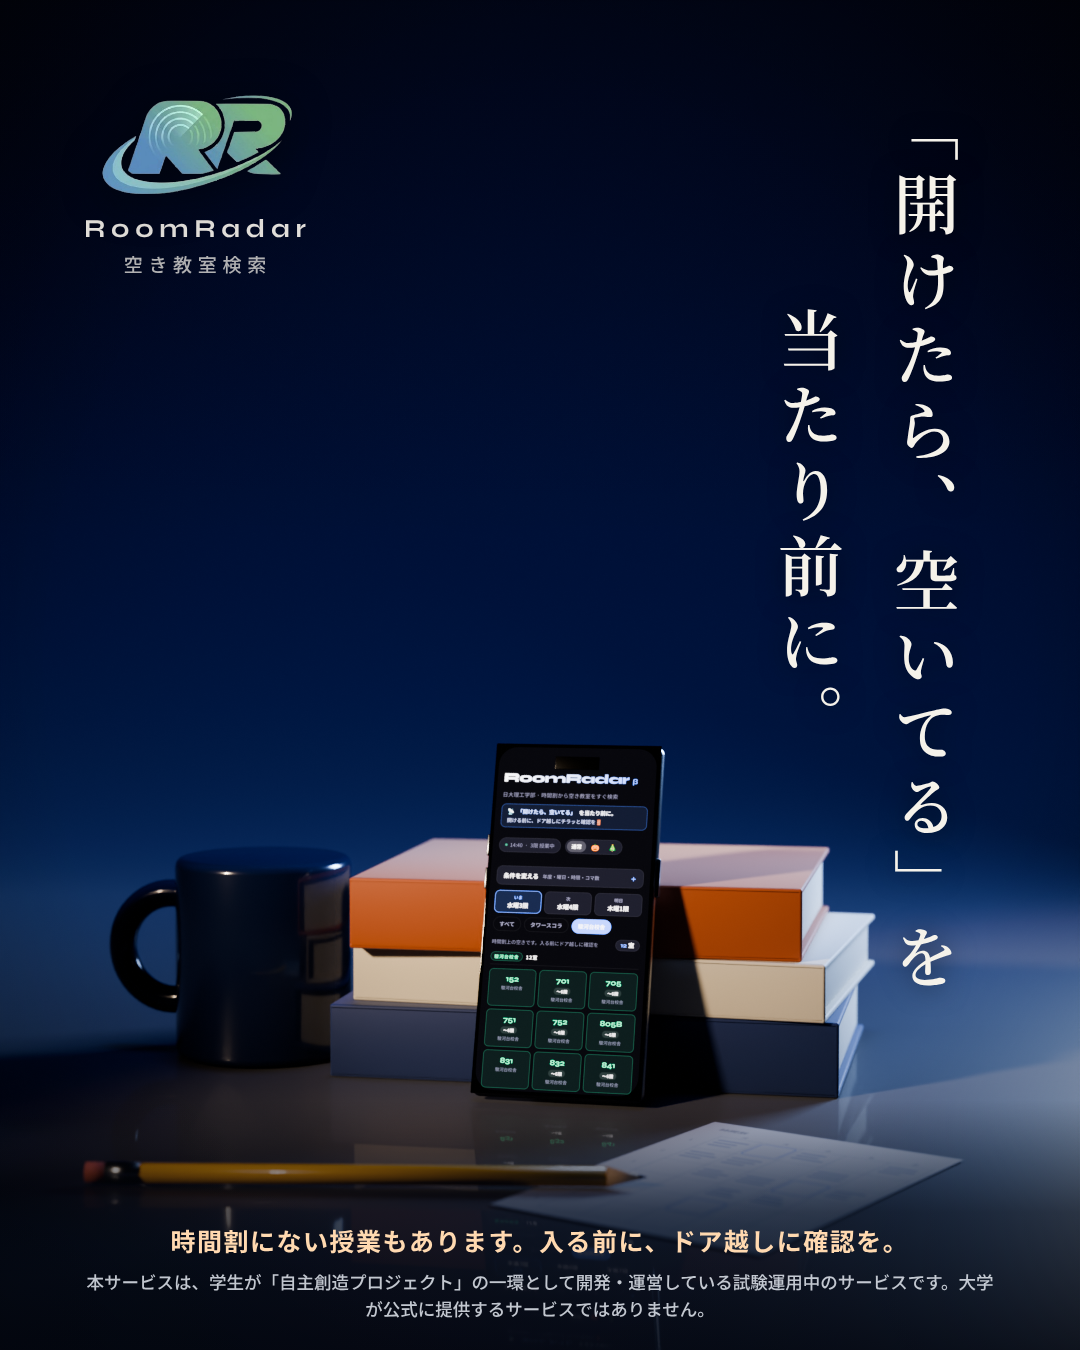
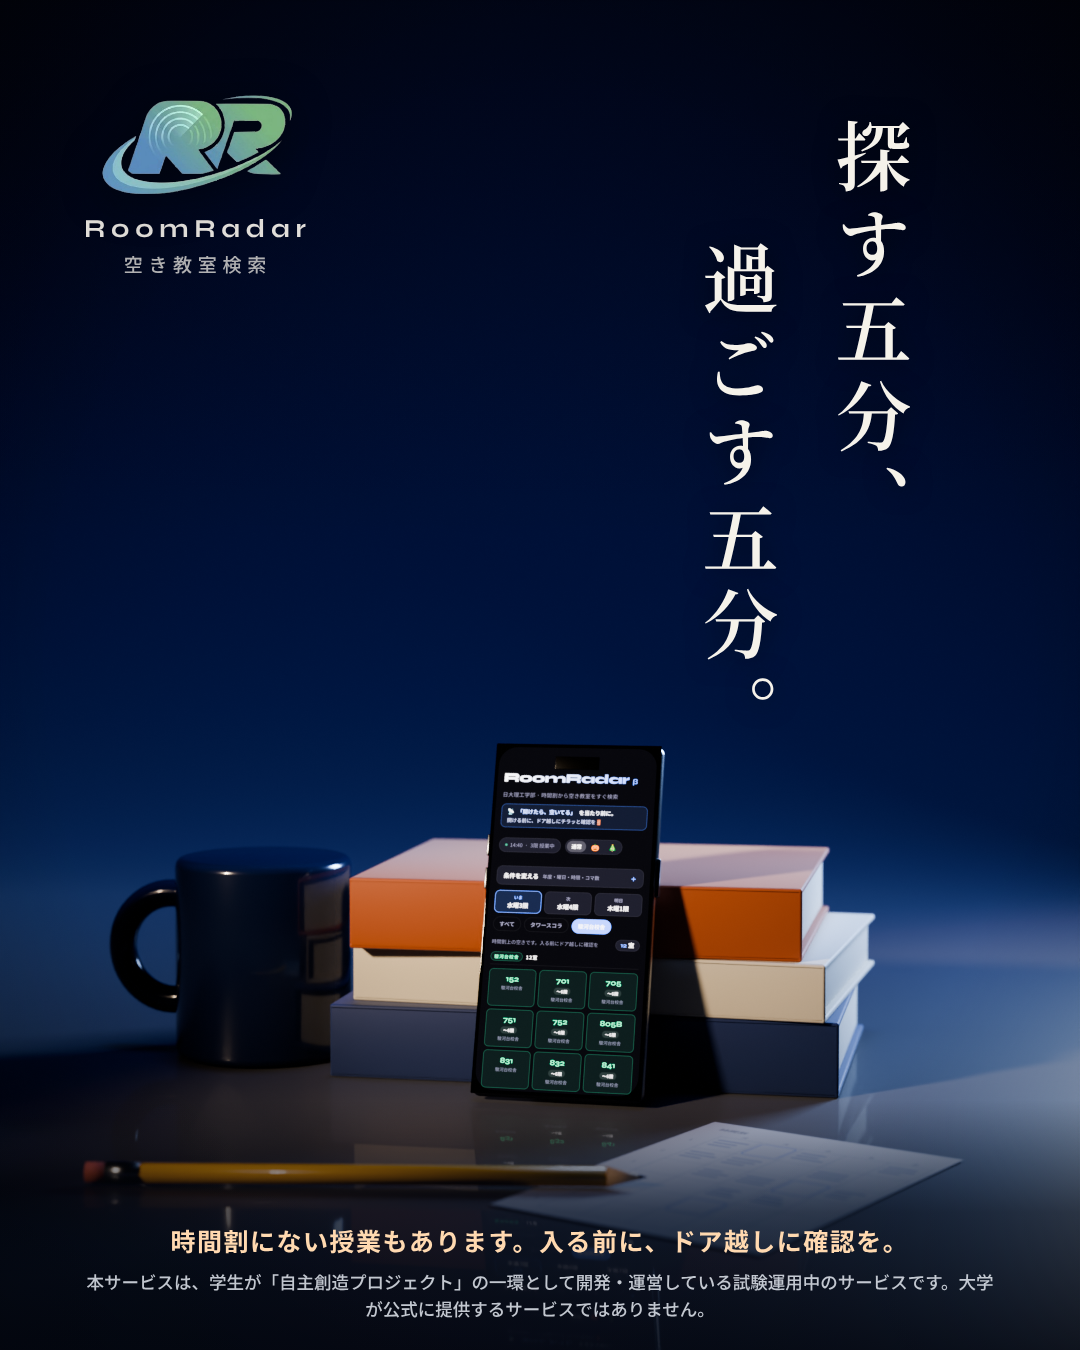
広告ふうの画像 v3：1枚目「探す五分、過ごす五分。」・3枚目「空きコマに、行き先を。」に替え、余白を整える
Claude-Session: https://claude.ai/code/session_01UHYxsu5FAgHywruL1DhtZn

diff --git a/video/ad-1119/compose3.py b/video/ad-1119/compose3.py
@@ -1,6 +1,6 @@
 """広告ふうの画像 v3（2026-11-22、運営「全部にロゴ入れて、決めたキャッチコピー使って」）。
 3D の背景に、核の言葉「「開けたら、空いてる」を当たり前に。」（明朝の縦書き）・ロゴ・注意の一言・必須の表記を重ねて、1080×1350 にする。
-  python3 compose3.py <背景.png> <出力.png> [side=right|left] [size=66] [top=96] [shade=0.35]
+  python3 compose3.py <背景.png> <出力.png> [side=right|left] [size=66] [top=96] [shade=0.35] [copy="1行目|2行目"] [drop=3.2em] [right=96]
 核の言葉は「時間割にない授業もある」の注意と必ず組で出す（docs/OPERATIONS.md の決定）。
 書体：明朝は Noto Serif CJK JP（AD_FONT_DIR）、ゴシックは video/desk-3d/fonts の Noto Sans CJK JP（どちらも OFL）。"""
 import sys, os
@@ -12,11 +12,13 @@ from playwright.sync_api import sync_playwright
 bg, out = sys.argv[1], sys.argv[2]
 opt = dict(a.split("=", 1) for a in sys.argv[3:])
 side, size, top, shade = opt.get("side", "right"), int(opt.get("size", 66)), int(opt.get("top", 96)), float(opt.get("shade", 0.35))
+lines = opt.get("copy", "「開けたら、空いてる」を|当たり前に。").split("|")
+drop, right = opt.get("drop", "3.2em"), int(opt.get("right", 96))
 FONT = os.environ.get("AD_FONT_DIR", "/tmp/claude-0/-home-user-nust-room-search/4884a853-579b-5cf7-8666-1d88092934b8/scratchpad/ad/fonts")
 SANS = os.path.abspath(os.path.join(HERE, "..", "desk-3d", "fonts"))
 LOGO = os.path.abspath(os.path.join(HERE, "..", "cm-ai", "rr_logo_hd.png"))
 NOTE = "本サービスは、学生が「自主創造プロジェクト」の一環として開発・運営している試験運用中のサービスです。大学が公式に提供するサービスではありません。"
-pos = "right:96px" if side == "right" else "left:96px"
+pos = f"right:{right}px" if side == "right" else f"left:{right}px"
 logopos = "left:84px" if side == "right" else "right:84px"
 html = f"""<!doctype html><html><head><meta charset="utf-8"><style>
 @font-face{{font-family:'Min';font-weight:600;src:url('file://{FONT}/NotoSerifCJKjp-SemiBold.otf')}}
@@ -31,7 +33,7 @@ html = f"""<!doctype html><html><head><meta charset="utf-8"><style>
 .copy{{position:absolute;{pos};top:{top}px;writing-mode:vertical-rl;font-family:'Min';font-weight:600;font-size:{size}px;line-height:1.75;
        letter-spacing:.14em;color:#f5f2ea;text-shadow:0 2px 26px rgba(0,0,0,.5)}}
 .copy span{{display:block}}
-.copy span:nth-child(2){{padding-top:3.2em}}
+.copy span:nth-child(2){{padding-top:{drop}}}
 .brand{{position:absolute;{logopos};top:84px;display:flex;flex-direction:column;align-items:center;gap:6px}}
 .brand img{{width:210px;filter:drop-shadow(0 6px 22px rgba(0,0,0,.45))}}
 .brand b{{font-family:'Syne';font-weight:700;font-size:26px;letter-spacing:.22em;color:rgba(245,242,234,.92)}}
@@ -40,7 +42,7 @@ html = f"""<!doctype html><html><head><meta charset="utf-8"><style>
 .note{{position:absolute;left:84px;right:84px;bottom:28px;text-align:center;font-family:'Sans';font-weight:500;font-size:17.5px;line-height:1.55;color:rgba(236,240,248,.82)}}
 </style></head><body><img class="bg" src="file://{os.path.abspath(bg)}"><div class="shade"></div><div class="foot"></div><div class="vig"></div>
 <div class="brand"><img src="file://{LOGO}" alt=""><b>RoomRadar</b><small>空き教室検索</small></div>
-<div class="copy"><span>「開けたら、空いてる」を</span><span>当たり前に。</span></div>
+<div class="copy">{"".join(f"<span>{l}</span>" for l in lines)}</div>
 <div class="caution">時間割にない授業もあります。入る前に、ドア越しに確認を。</div>
 <div class="note">{NOTE}</div></body></html>"""
 tmp = os.path.abspath(out) + ".html"; open(tmp, "w", encoding="utf-8").write(html)

diff --git a/video/ad-1119/README.md b/video/ad-1119/README.md
@@ -51,3 +51,6 @@
 - キャッチコピーは、3枚とも核の言葉「「開けたら、空いてる」を当たり前に。」（2026-10-21 運営決定）。決まりどおり「時間割にない授業もあります。入る前に、ドア越しに確認を。」と組で出す。
 - 左上にロゴ（`video/cm-ai/rr_logo_hd.png`）と「RoomRadar／空き教室検索」。下に必須の表記（学生課の文言）。
 - 作り方：`python3 compose3.py renders/hero2_final.png ../../assets/instagram/ad/ad3-hero.png`（door・room も同じ）。
+- 2026-11-22 運営「2枚目はすごくいい感じ。1、3をキャッチコピー変更と余白のバランスを整えて」→ 1枚目は「探す五分、／過ごす五分。」（10/21 運営決定の言葉。縦書きなので数字は漢数字）、3枚目は「空きコマに、／行き先を。」。字を大きくして、2行目の下げ幅を小さく、右の余白を広げた：
+  `python3 compose3.py renders/hero2_final.png ../../assets/instagram/ad/ad3-hero.png "copy=探す五分、|過ごす五分。" size=76 top=118 drop=1.6em right=140`
+  `python3 compose3.py renders/room2_final.png ../../assets/instagram/ad/ad3-room.png "copy=空きコマに、|行き先を。" size=80 top=130 drop=1.6em right=140`
